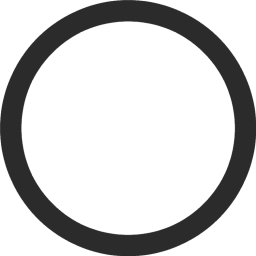
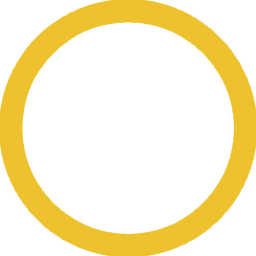
final version

Changed region(s): [[0.0, 0.0, 1.0, 1.0]]

diff --git a/script.js b/script.js
@@ -1,90 +1,170 @@
 let crossFields = [];
 let circleFields = [];
 let currentShape = 'cross';
-let winnersFields = []
+let winner = '';
+let winnersFields = [];
 const winningCombinations = [ 
-    [0, 1, 2, 0], /**last number is winning line id */
-    [3, 4, 5, 1],
-    [6, 7, 8, 2],
-    [0, 3, 6, 3],
-    [1, 4, 7, 4],
-    [2, 5, 8, 5],
-    [0, 4, 8, 6],
-    [6, 4, 2, 7]
-]
+    [0, 1, 2],
+    [3, 4, 5],
+    [6, 7, 8],
+    [0, 3, 6],
+    [1, 4, 7],
+    [2, 5, 8],
+    [0, 4, 8],
+    [6, 4, 2]
+];
+
 
 const setup = () => {
-    document.getElementById('line-0').style.transform = 'scaleX(0)'
-    document.getElementById('line-1').style.transform = 'scaleX(0)'
-    document.getElementById('line-2').style.transform = 'scaleX(0)'
-    document.getElementById('line-3').style.transform = 'rotate(90deg) scaleX(0)'
-    document.getElementById('line-4').style.transform = 'rotate(90deg) scaleX(0)'
-    document.getElementById('line-5').style.transform = 'rotate(90deg) scaleX(0)'
-    document.getElementById('line-6').style.transform = 'rotate(45deg) scaleX(0)'
-    document.getElementById('line-7').style.transform = 'rotate(135deg) scaleX(0)'
-}
-                
+    showCurrentPlayer();
+
+    /**to replace transform value when drawing line */
+    document.getElementById('line-0').style.transform = 'scaleX(0)';
+    document.getElementById('line-1').style.transform = 'scaleX(0)';
+    document.getElementById('line-2').style.transform = 'scaleX(0)';
+    document.getElementById('line-3').style.transform = 'rotate(90deg) scaleX(0)';
+    document.getElementById('line-4').style.transform = 'rotate(90deg) scaleX(0)';
+    document.getElementById('line-5').style.transform = 'rotate(90deg) scaleX(0)';
+    document.getElementById('line-6').style.transform = 'rotate(45deg) scaleX(0)';
+    document.getElementById('line-7').style.transform = 'rotate(135deg) scaleX(0)';
+};
+    
+
 const fillField = (field) => {
     if(!document.getElementById('field-' + field).classList.contains('disabled-td')) {
         if(currentShape == 'cross') {
-            currentShape = 'circle'
-            circleFields.push(field)
+            currentShape = 'circle';
+            circleFields.push(field);
         } else {
             currentShape = 'cross';
-            crossFields.push(field)
-        }
+            crossFields.push(field);
+        };
         
-        disableField(field)
-        drawShapeAt(field)
-        console.log(checkWin())
-    }
-}
+        disableField(field);
+        drawShapeAt(field);
+        checkWin();
+        showCurrentPlayer();
+    };
+};
+
+
+const showCurrentPlayer = () => {
+    if(currentShape == 'cross') {
+        document.getElementById('x-player-info').style.opacity = 0.5;
+        document.getElementById('o-player-info').style.opacity = 1;
+    } else {
+        document.getElementById('x-player-info').style.opacity = 1;
+        document.getElementById('o-player-info').style.opacity = 0.5;
+    };
+};
+
 
 const drawShapeAt = (field) => {
     if(crossFields.includes(field)) {
-        document.getElementById('field-' + field).style.backgroundImage = 'url("res/cross.png")'
+        document.getElementById('field-' + field).style.backgroundImage = 'url("res/cross.png")';
     } else {
-        document.getElementById('field-' + field).style.backgroundImage = 'url("res/circle.png")'
-    }
-}
+        document.getElementById('field-' + field).style.backgroundImage = 'url("res/circle.png")';
+    };
+};
+
 
 const disableField = (field) => {
-    document.getElementById('field-' + field).classList.add('disabled-td')
-}
+    document.getElementById('field-' + field).classList.add('disabled-td');
+};
+
 
 const checkWin= () => {
-    let winner = ''
-
+    /**check for winner */
     for(i = 0; i < winningCombinations.length; i++) {
         if(crossFields.includes(winningCombinations[i][0]) && crossFields.includes(winningCombinations[i][1]) && crossFields.includes(winningCombinations[i][2])){
-            winner = 'cross'
-            winnersFields = winningCombinations[i]
+            winner = 'cross';
+            winnersFields = winningCombinations[i];
         } else if(circleFields.includes(winningCombinations[i][0]) && circleFields.includes(winningCombinations[i][1]) && circleFields.includes(winningCombinations[i][2])) {
-            winner = 'circle'
-            winnersFields = winningCombinations[i]
-        }
-    }
+            winner = 'circle';
+            winnersFields = winningCombinations[i];
+        };
+    };
 
     if(winner){
-        disableAllFields()
-        drawLine(winningCombinations[winningCombinations.indexOf(winnersFields)][3])
-        return winner
+        drawLine(winningCombinations.indexOf(winnersFields));
+        addScore(winner);
+        showWinnerContainer(winner);
     } else if(crossFields.length + circleFields.length == 9){
-        disableAllFields()
-        return 'draw'
-    }
-}
+        showWinnerContainer('draw');
+    };
+};
+
 
 const drawLine = (lineNo) => {
-    const line = document.getElementById('line-' + lineNo)
-    line.classList.remove('hide')
+    const line = document.getElementById('line-' + lineNo);
+
+    line.style.transitionDuration = '225ms';
+    
     setTimeout(() => {
-        line.style.transform = line.style.transform.replace('scaleX(0)', 'scaleX(1)')
-    },0)
+        line.style.transform = line.style.transform.replace('scaleX(0)', 'scaleX(1)');
+    },0);
+};
+
+
+const showWinnerContainer = (winner) => {
+    const winnerContainer = document.getElementById('winning-container');
+    const winnerContainerImage = document.getElementById('winning-container-img');
+    const winnerTopLabel = document.getElementById('winning-container-top-label');
+    const winnerBottomLabel = document.getElementById('winning-container-bottom-label');
+
+    /**animation */
+    setTimeout(() => {
+        document.getElementById('x-player-info').style.opacity = 1;
+        document.getElementById('o-player-info').style.opacity = 1;
+    }, 1);
+
+    winnerContainer.classList.remove('hide');
+    winnerContainer.style.opacity = 0;
+    setTimeout(() => {
+        winnerContainer.style.opacity = 1;
+    }, 750);
+
+    updateWinnerContainerGraphics(winner);
 }
 
-const disableAllFields = () => {
+const updateWinnerContainerGraphics = (winner) => {
+    if(winner == 'draw') {
+        winnerContainerImage.classList.add('hide');
+        winnerTopLabel.innerHTML = `It's a`;
+        winnerBottomLabel.innerHTML = 'Draw!';
+    } else {
+        winnerContainerImage.classList.remove('hide');
+        winnerTopLabel.innerHTML = 'Player';
+        winnerBottomLabel.innerHTML = 'won!';
+        document.getElementById('winning-container-img').src = 'res/' + winner + '.png';
+    };
+};
+
+
+const addScore = (to) => {
+    document.getElementById(to + '-player-wins').innerHTML = Number(document.getElementById(to + '-player-wins').innerHTML) + 1;
+};
+
+
+const resetAll = () => {
+    document.getElementById('winning-container').classList.add('hide');
+
+    /**reset all */   
+    crossFields = [];
+    circleFields = [];
+    currentShape = winner;
+    winner = '';
+    winnersFields = [];
+
+    showCurrentPlayer();
+
+    /**reset field */
     for(i = 0; i < 9; i++) {
-        disableField(i)
-    }
-}
+        if(i != 8){
+            document.getElementById('line-' + i).style.transitionDuration = '0ms';
+            document.getElementById('line-' + i).style.transform = document.getElementById('line-' + i).style.transform.replace('scaleX(1)', 'scaleX(0)');
+        };
+        document.getElementById('field-' + i).style.backgroundImage = '';
+        document.getElementById('field-' + i).classList.remove('disabled-td');
+    };
+};

diff --git a/style.css b/style.css
@@ -1,28 +1,55 @@
+@import url('https://fonts.googleapis.com/css2?family=Varela+Round&display=swap');
+
+body {
+    background: #FAF8EF;
+    display: flex;
+    align-items: center;
+    justify-content: center;
+    margin: 0;
+    height: 100vh;
+    font-family: 'Varela Round', sans-serif;
+    font-weight: bold;
+}
+
 #game-div {
-    position: absolute;
-    left: 50%;
-    top: 50%;
-    transform: translate(-50%, -50%);
+    display: flex;
+    flex-direction: column;
+    position: relative;
 }
 
 .hide {
-    display: none;
+    display: none !important;
+}
+
+.row {
+    display: flex;
+    flex-direction: row;
 }
 
 .player-info-container {
-    width: 50%;
-    border: 3px solid #2B2B2B;
+    width: 100%;
+    background: #BBADA0;
     border-radius: 10px;
-    margin: 20px;
-    padding: 5px;
+    margin: 0 10px;
+    margin-bottom: 40px;
+    padding: 10px;
+    display: flex;
+}
+
+.player-info-container span {
+    font-size: 20px;
+    color: white;
+    margin-top: 2px;
+    width: 100%;
+    text-align: center;
 }
 
 .player-info-image {
     height: 25px;
+    margin-right: 10px;
 }
 
 /*board*/
-
 .disabled-td {
     cursor: default!important;
 }
@@ -42,7 +69,7 @@ tr {
 td {
     width: 133px;
     height: 133px;
-    border: 7px solid #2B2B2B;
+    border: 7px solid #BBADA0;
     position: relative;
     cursor: pointer;
     background-size: 100px;
@@ -76,9 +103,44 @@ table tr td:last-child {
     width: 399px;
     position: absolute;
     z-index: 1;
-    background: #2B2B2B;
+    background: #8C8178;
     left: 10px;
-    transition: transform 225ms ease-in-out;
+    transition: 225ms;
     transform: scaleX(0);
     transform-origin: left;
+}
+
+/*winning container*/
+#winning-container {
+    width: 420px;
+    height: 450px;
+    background: rgb(250, 248, 239, 1);
+    position: absolute;
+    display: flex;
+    align-items: center;
+    justify-content: center;
+    flex-direction: column;
+    color: #8F7A66;
+    font-size: 20px;
+    z-index: 2;
+    margin-top: 90px;
+    transition-duration: 500ms;
+}
+
+#winning-container-img {
+    height: 160px;
+    margin: 40px;
+}
+
+#play-again-button {
+    margin: 30px;
+    padding: 10px 30px;
+    background: #8F7A66;
+    color: white;
+    border-radius: 10px;
+    cursor: pointer;
+}
+
+#play-again-button:hover {
+    background: #A58C77;
 }

diff --git a/index.html b/index.html
@@ -14,9 +14,13 @@
 
     <!--Game Info-->
     <div class="row">
+      <div id="o-player-info" class="player-info-container">
+        <img src="res/circle.png" class="player-info-image">
+        <span id="circle-player-wins">0</span>
+      </div>
       <div id="x-player-info" class="player-info-container">
         <img src="res/cross.png" class="player-info-image">
-        -
+        <span id="cross-player-wins">0</span>
       </div>
     </div>
 
@@ -41,15 +45,23 @@
     </table>
 
     <!--Winning Lines-->
-    <div id="line-0" class="hide horizontal-line" style="top: 147px;"></div>
-    <div id="line-1" class="hide horizontal-line" style="top: 290px;"></div>
-    <div id="line-2" class="hide horizontal-line" style="top: 433px;"></div>
-    <div id="line-3" class="hide horizontal-line" style="left: 65px; top: 92px;"></div>
-    <div id="line-4" class="hide horizontal-line" style="left: 205px; top: 92px;"></div>
-    <div id="line-5" class="hide horizontal-line" style="left: 352px; top: 92px;"></div>
-    <div id="line-6" class="hide horizontal-line" style="left: 67px; top: 150px;"></div>
-    <div id="line-7" class="hide horizontal-line" style="left: 350px; top: 150px;"></div>
-
+    <div id="line-0" class="horizontal-line" style="top: 148px;"></div>
+    <div id="line-1" class="horizontal-line" style="top: 289px;"></div>
+    <div id="line-2" class="horizontal-line" style="top: 433px;"></div>
+    <div id="line-3" class="horizontal-line" style="left: 65px; top: 88px;"></div>
+    <div id="line-4" class="horizontal-line" style="left: 208px; top: 88px;"></div>
+    <div id="line-5" class="horizontal-line" style="left: 352px; top: 88px;"></div>
+    <div id="line-6" class="horizontal-line" style="left: 67px; top: 149px;"></div>
+    <div id="line-7" class="horizontal-line" style="left: 350px; top: 150px;"></div>
   </div>
+
+  <!--Winning container-->
+  <div id="winning-container" class="hide">
+    <span id="winning-container-top-label">Player</span>
+    <img id="winning-container-img" src="res/circle.png">
+    <span id="winning-container-bottom-label">won!</span>
+    <div id="play-again-button" onclick="resetAll()">Play again</div>
+  </div>
+
 </body>
 </html>
